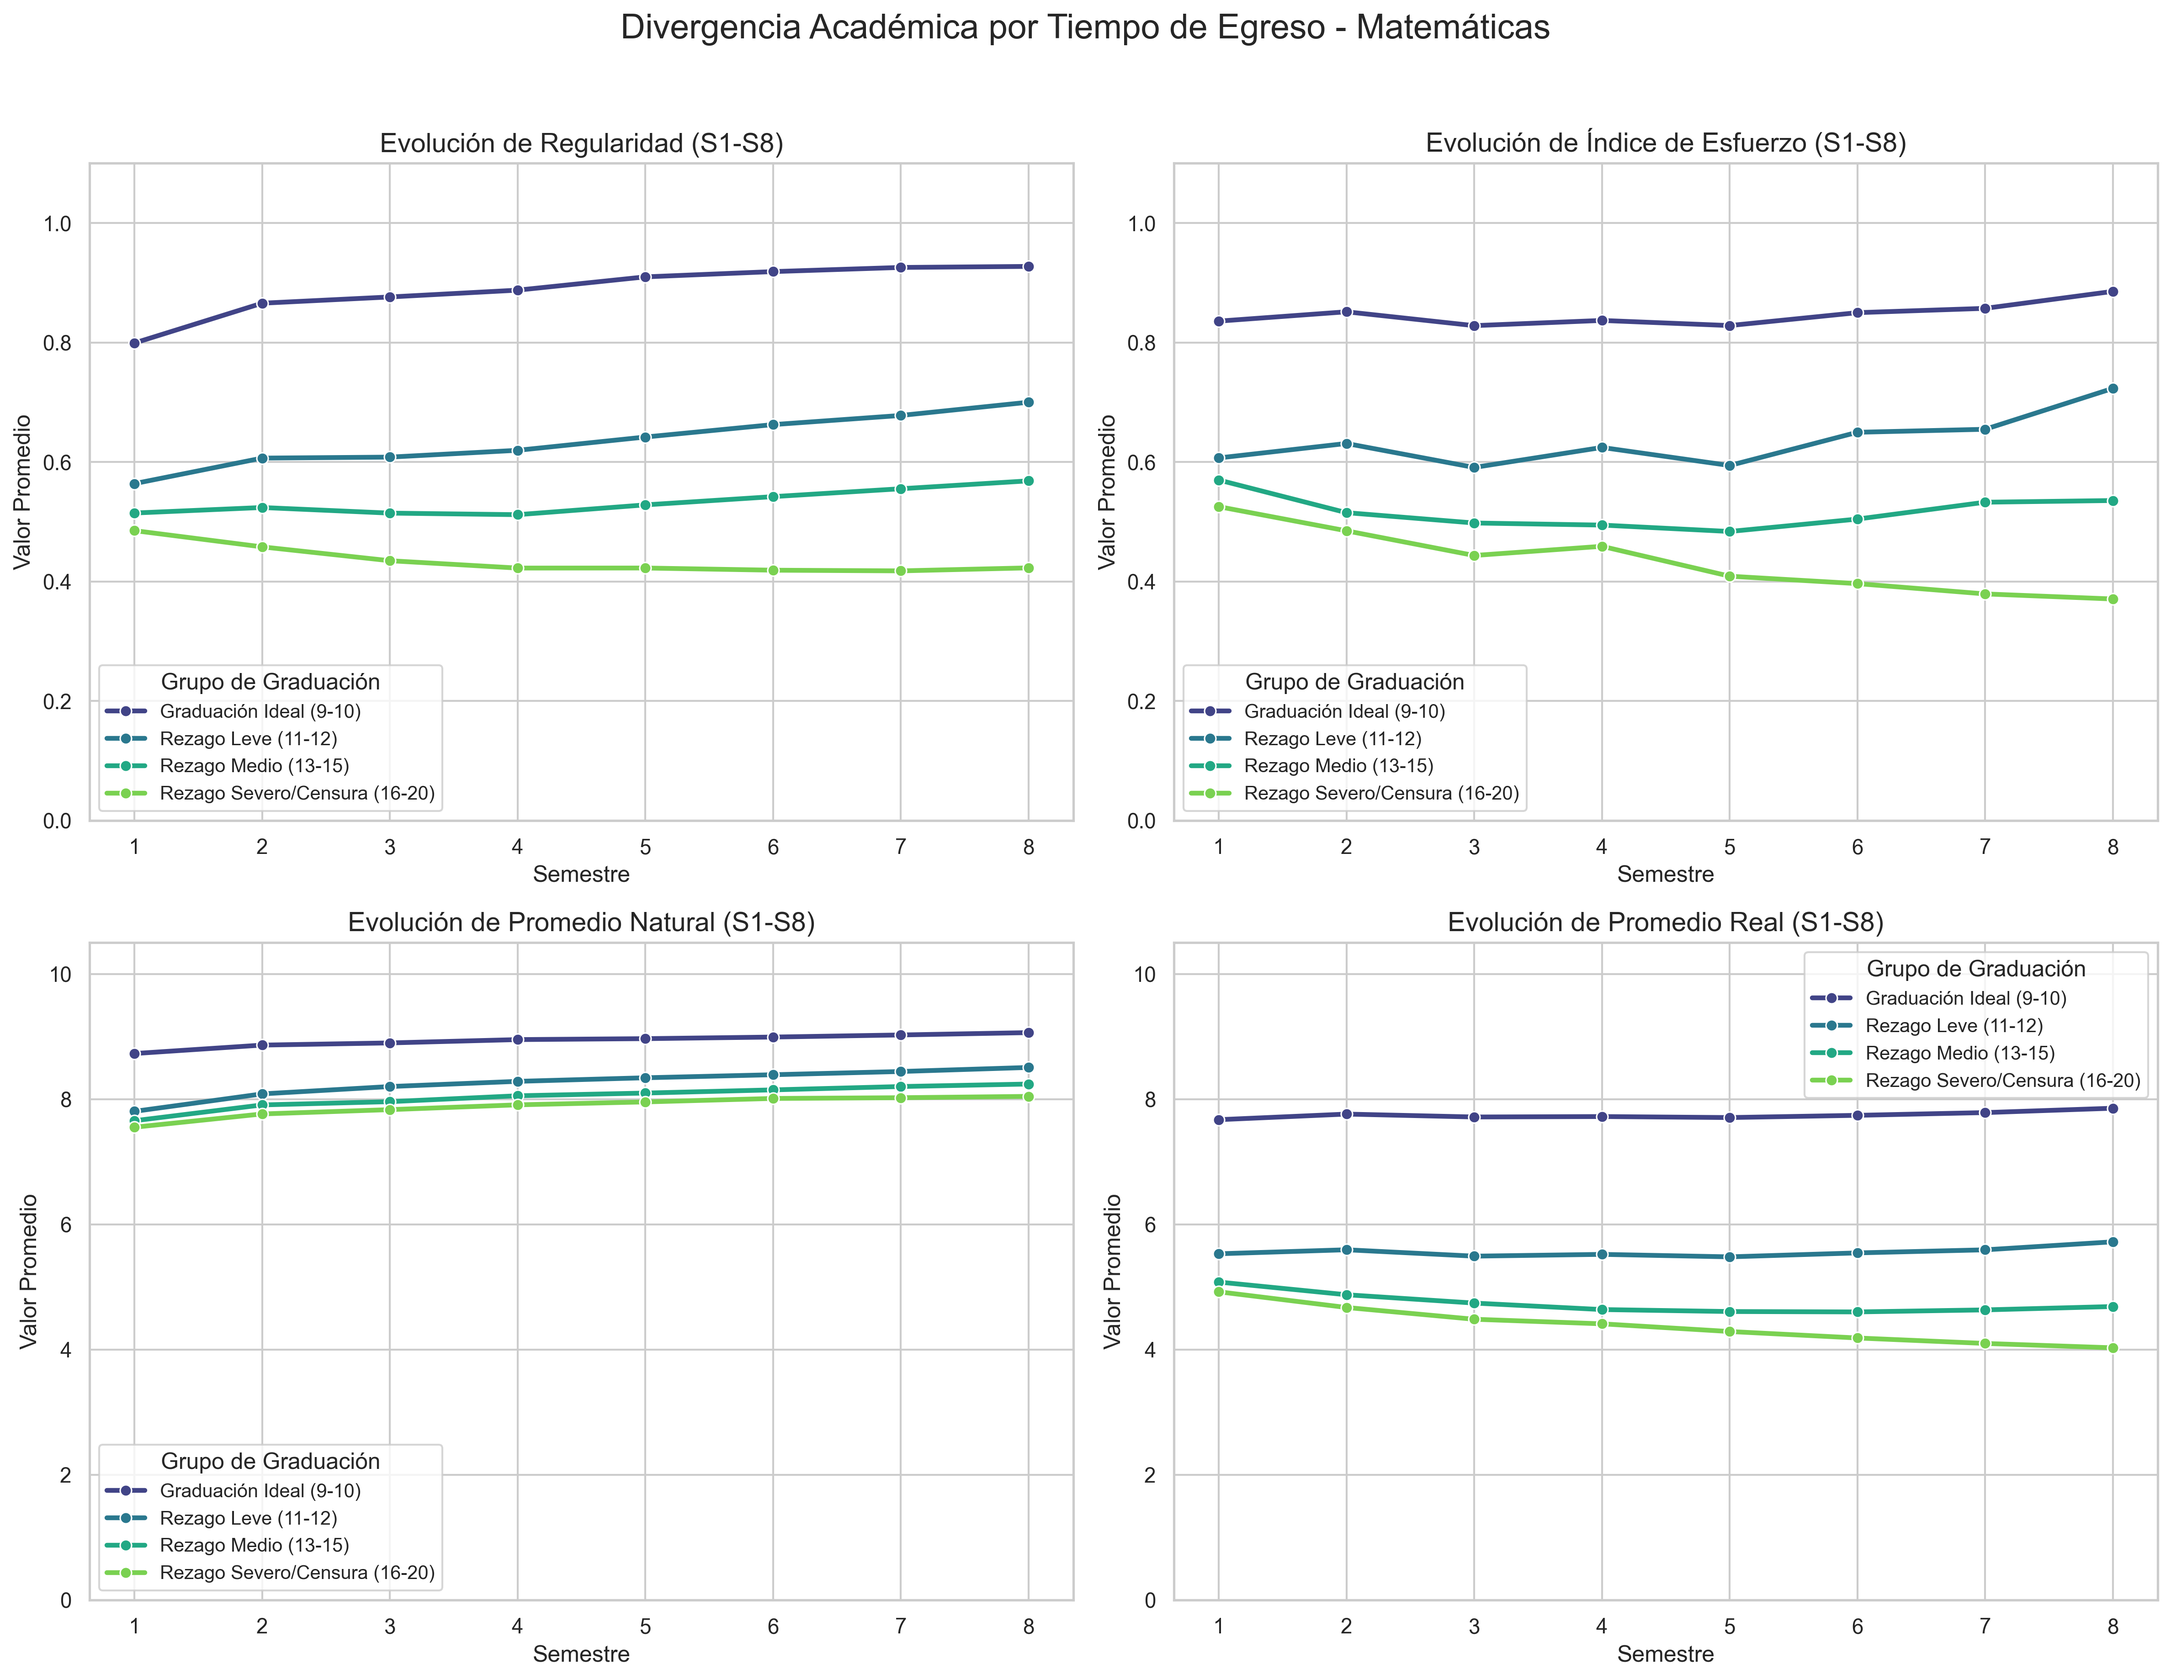
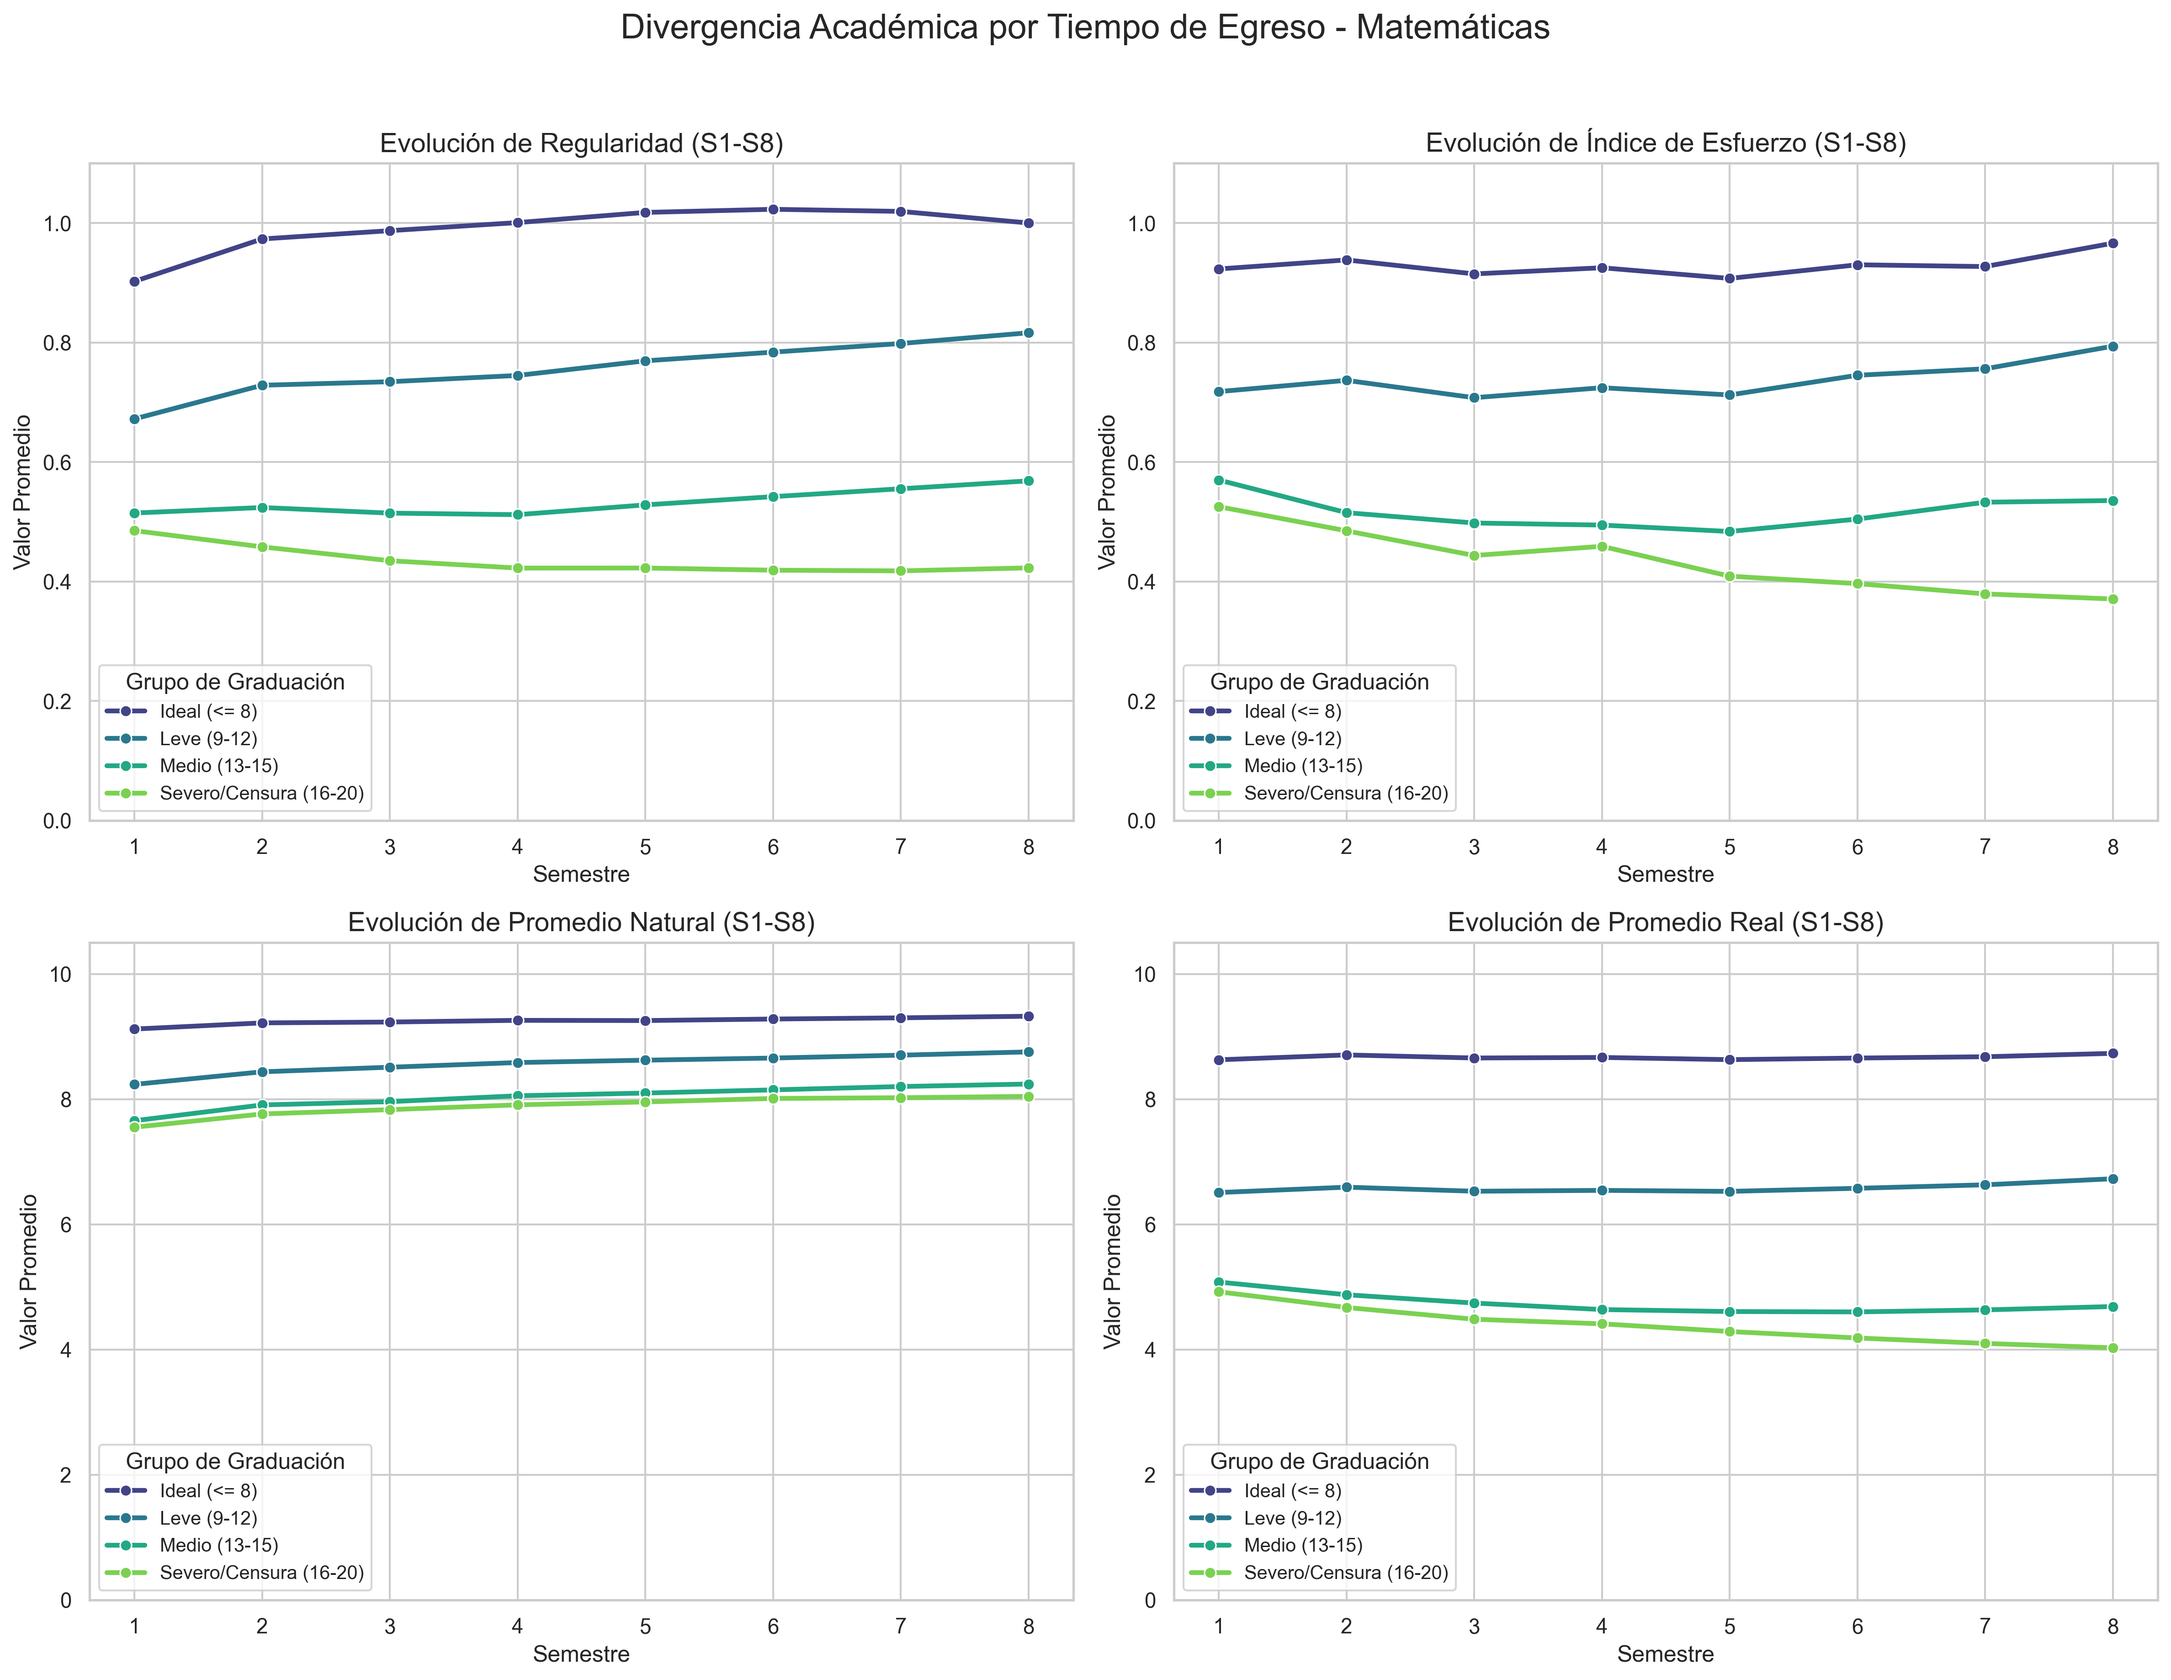
feat: refina bines de graduacion en evolucion de metricas (Mat 8, Fis 9)

diff --git a/src/notebooks/14_evolucion_metricas.py b/src/notebooks/14_evolucion_metricas.py
@@ -30,9 +30,14 @@ for carrera in carreras:
     df = pd.read_excel(archivo)
     df['semestre_termino'] = df['semestre_termino'].fillna(20)
     
-    # Definir grupos por semestre de término
-    bins = [0, 10, 12, 15, 20]
-    labels = ['Graduación Ideal (9-10)', 'Rezago Leve (11-12)', 'Rezago Medio (13-15)', 'Rezago Severo/Censura (16-20)']
+    # Definir grupos por semestre de término específicos por carrera
+    if "Mat" in carrera:
+        bins = [0, 8, 12, 15, 20]
+        labels = ['Ideal (<= 8)', 'Leve (9-12)', 'Medio (13-15)', 'Severo/Censura (16-20)']
+    else: # Física
+        bins = [0, 9, 12, 15, 20]
+        labels = ['Ideal (<= 9)', 'Leve (10-12)', 'Medio (13-15)', 'Severo/Censura (16-20)']
+        
     df['grupo'] = pd.cut(df['semestre_termino'], bins=bins, labels=labels)
     
     # Filtrar solo alumnos con 8 semestres completos para que la línea sea continua
